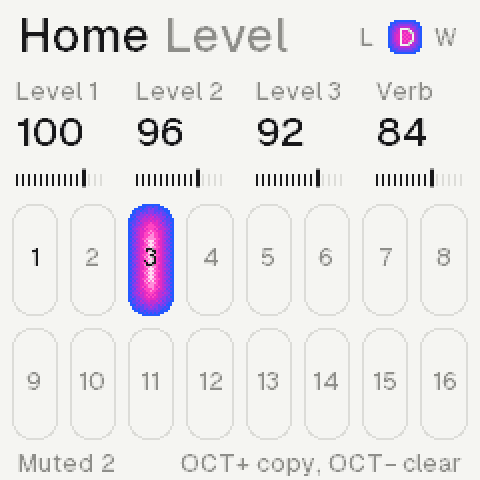
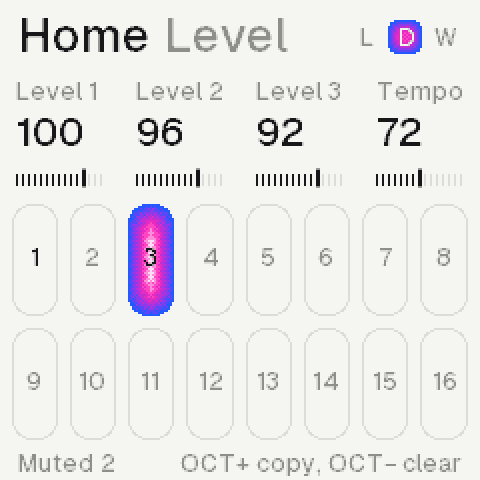
The pages for the echo a track's and the Space
The manual: the panel (FX's sends, GLO's Space, Home's three rows, ALGO
round them on Home), Home's rows, the Delay's five types, Sends, the
Space and its eight types. The site's claims and the FX and Global
pages' lines; README's features; the plan records the owner's decision
(2026-10-26) as built. Home, Home held, Home at night, FX and Global
from the tour.

Changed region(s): [[0.7812, 0.1562, 0.9688, 0.3125], [0.2812, 0.4375, 0.3438, 0.6562], [0.875, 0.3438, 0.9062, 0.4062]]

diff --git a/web/manual.html b/web/manual.html
@@ -89,13 +89,13 @@
         <h1>The panel</h1>
         <p class="msub">Each button opens its page; again, its next row. K1 to K4 turn the values over them, ALGORITHM the one at the foot.</p>
         <div class="mt">
-          <p><b>FX</b><span>Effects: reverb, delay, motion, space</span></p>
+          <p><b>FX</b><span>Effects: reverb, delay, motion, sends</span></p>
           <p><b>SEL</b><span>Filter</span></p>
           <p><b>ENV</b><span>Amp: the envelope and the level</span></p>
           <p><b>LFO</b><span>LFO: a slow wave on the pitch, cutoff, level, pan or start</span></p>
           <p><b>EDIT</b><span>Sound: the recording; again, its layer; again, the voice</span></p>
-          <p><b>GLO</b><span>Global: the colour, the echo, the media over the mix; the setup</span></p>
-          <p><b>HOME</b><span>Home: levels, sends, tempo; the scene</span></p>
+          <p><b>GLO</b><span>Global: the colour, the Space, the media over the mix; the setup</span></p>
+          <p><b>HOME</b><span>Home: levels and tempo, sends to the Space, pans; the scene</span></p>
           <p><b>ARP</b><span>Chord: the progression; the keys play chords</span></p>
           <p><b>SEQ</b><span>Roll: this synth's own sequence</span></p>
           <p><b>SAVE</b><span>Projects and sounds; again, saved</span></p>
@@ -105,13 +105,13 @@
         <div class="mt">
           <p><b>SELECT</b><span>The synth, on every page</span></p>
           <p><b>PRESETS</b><span>The page's rows; on Home, the synth's sound</span></p>
-          <p><b>ALGORITHM</b><span>The foot's value: on FX and GLO the row's type</span></p>
+          <p><b>ALGORITHM</b><span>The foot's value: on FX and GLO the row's type; on Home the rows</span></p>
           <p><b>K1 to K4</b><span>The four values on top</span></p>
           <p><b>MASTER</b><span>The volume</span></p>
         </div>
         <div class="mt">
           <p><b>Tap, again</b><span>A page button opens its page; again, its next row</span></p>
-          <p><b>PRESETS, ALGO</b><span>PRESETS the row, ALGORITHM its type</span></p>
+          <p><b>PRESETS, ALGO</b><span>PRESETS the row, ALGORITHM its type; on Home ALGORITHM the row</span></p>
           <p><b>Hold, then act</b><span>A held key or chord: the knobs change it, OCT&minus; deletes, OCT+ copies</span></p>
           <p><b>Lists go round</b><span>Past the last, the first; numbers stop at their ends</span></p>
         </div>
@@ -126,6 +126,12 @@
           <figure class="mfig"><img src="img/screens/04_filter.png" alt="Filter" width="240" height="240"><figcaption>Filter: the response, its cutoff.</figcaption></figure>
           <figure class="mfig"><img src="img/screens/05_amp.png" alt="Amp" width="240" height="240"><figcaption>Amp: the envelope, its points.</figcaption></figure>
           <figure class="mfig"><img src="img/screens/06_fx.png" alt="FX" width="240" height="240"><figcaption>FX: four rows, a synth each.</figcaption></figure>
+        </div>
+        <p class="note">Home has three rows, ALGORITHM round them; PRESETS stays the sound there.</p>
+        <div class="mt">
+          <p><b>Level</b><span>Each synth's level; K4 the tempo</span></p>
+          <p><b>Space</b><span>Each synth's send to the Space; K4 its return</span></p>
+          <p><b>Pan</b><span>Each synth's place; K4 the mix's width</span></p>
         </div>
       </article>
       <article id="keys" data-group="Playing">
@@ -301,13 +307,13 @@
       </article>
       <article id="effects" data-group="Sound">
         <h1>Effects</h1>
-        <p class="msub">Four rows a synth on FX: its own reverb, delay and motion, and where it sits. Then on GLO the colour, the echo and the media all three share. PRESETS the row, ALGORITHM its type.</p>
+        <p class="msub">Four rows a synth on FX: its own reverb, delay and motion, and its sends. Then on GLO the colour, the Space and the media all three share. PRESETS the row, ALGORITHM its type.</p>
         <figure class="mfig"><img src="img/screens/06_fx.png" alt="FX" width="240" height="240"><figcaption>Each row names its effect.</figcaption></figure>
         <div class="mt">
           <p><b>Reverb</b><span>The synth's own: room, plate, spring or hall; Amount, Tone, Size and the type's own knob</span></p>
-          <p><b>Delay</b><span>Off, delay or ping-pong (left, then right), in time: Time is a division of the tempo; Mix, Tone, Regen</span></p>
+          <p><b>Delay</b><span>Off, delay or ping-pong (left, then right) in time, Time a division of the tempo; a tape echo; grains. Mix, Tone, Regen</span></p>
           <p><b>Motion</b><span>Chorus, vibrato, drift, ensemble, phaser, flanger, tremolo (on the tempo)</span></p>
-          <p><b>Space</b><span>The sends: to its reverb (its Amount) and to the echo, the pan, the width; ALGORITHM its reverb's type</span></p>
+          <p><b>Sends</b><span>Space, its send to the Space on GLO; its pan and width</span></p>
         </div>
         <p class="note">Each effect names its own four knobs: crush shows bits, tone, rate and jitter. A synth's delay is lofi, at 11 kHz; a long time at a slow tempo plays at half, still in time.</p>
         <div class="mt">
@@ -316,10 +322,21 @@
           <p><b>Plate</b><span>Bright and dense; Mod sets its slow sway</span></p>
           <p><b>Spring</b><span>A tank's chirp, thin and wiry; Drip, how much</span></p>
           <p><b>Hall</b><span>A small hall, wide and long, to 16 s; Mod sets its slow sway</span></p>
+          <p><b>Tape echo</b><span>A synth's: darkening repeats to 0.69 s, bent as Time turns, a slow wow</span></p>
+          <p><b>Grains</b><span>A synth's: a cloud of what it played; Size, Density, Texture</span></p>
           <p><b>Colour</b><span>On GLO, the whole mix: saturate, crush, lossy (a codec's smear), noise, warm, distort</span></p>
-          <p><b>Tape echo</b><span>Darkening repeats</span></p>
-          <p><b>Grains</b><span>A cloud of what you played: size, density, texture</span></p>
           <p><b>Media</b><span>The whole mix through tape, cassette, VHS, vinyl, radio or a dictaphone</span></p>
+        </div>
+        <p class="note">The Space, on GLO: one huge reverb all three send to (their Sends, or Home's Space row), its tail to minutes. Return, Tone, Size, Mod.</p>
+        <div class="mt">
+          <p><b>Hall</b><span>Long and wide, to 21 s</span></p>
+          <p><b>Space</b><span>Wider still, to two minutes</span></p>
+          <p><b>Haze</b><span>Deep, slow and dark</span></p>
+          <p><b>Bloom</b><span>Swells up behind a new sound</span></p>
+          <p><b>Lofi</b><span>Grainy: 11 kHz, 8 bits, a deep wow</span></p>
+          <p><b>Shimmer</b><span>An octave up rising through it; Shine, how much</span></p>
+          <p><b>Reverse</b><span>The sound backwards into it; Length, how long</span></p>
+          <p><b>Freeze</b><span>Holds what is in it, to five minutes; Hold, how much</span></p>
         </div>
       </article>
       <article id="midi" data-group="Reference">

diff --git a/web/index.html b/web/index.html
@@ -5,7 +5,7 @@
   <meta charset="utf-8">
   <meta name="viewport" content="width=device-width, initial-scale=1">
   <title>Demake</title>
-  <meta name="description" content="Demake: an ambient lofi machine for the M-VAVE FM-1. Three synths on its own recordings, scenes and songs, a chord machine, tape, lossy and a reverb each.">
+  <meta name="description" content="Demake: an ambient lofi machine for the M-VAVE FM-1. Three synths on its own recordings, scenes and songs, a chord machine, tape, lossy, a reverb each and one huge Space.">
   <link rel="icon" href="img/icon.png">
   <link rel="stylesheet" href="style.css?v=30">
   <script>
@@ -73,7 +73,7 @@
     <figure class="eng e3"><div class="img"><canvas class="heat" data-heat="img/art/drift.png"></canvas></div><figcaption><b>Colour</b><span>Saturate, crush, lossy, noise, warm, distort.</span></figcaption></figure>
     <figure class="eng e4"><div class="img"><canvas class="heat" data-heat="img/art/rise.png"></canvas></div><figcaption><b>Media</b><span>Tape to dictaphone over the whole mix, wow and all.</span></figcaption></figure>
     <figure class="eng e5"><div class="img"><canvas class="heat" data-heat="img/art/twin.png"></canvas></div><figcaption><b>Motion</b><span>Chorus to flanger, and a tremolo in time.</span></figcaption></figure>
-    <figure class="eng e6"><div class="img"><canvas class="heat" data-heat="img/art/wave.png"></canvas></div><figcaption><b>Space</b><span>A reverb and a delay a synth, an echo, grains.</span></figcaption></figure>
+    <figure class="eng e6"><div class="img"><canvas class="heat" data-heat="img/art/wave.png"></canvas></div><figcaption><b>Space</b><span>A reverb and a delay or echo a synth; one huge Space.</span></figcaption></figure>
   </section>
 
   <!-- 03 the screens: its pages, one press each -->
@@ -95,8 +95,8 @@
       <button class="page" data-src="img/screens/03_sound.png" data-name="Sound" data-b="4" data-say="The sound&#39;s shape, its loop"><kbd>EDIT</kbd><b>Sound</b><span></span></button>
       <button class="page" data-src="img/screens/04_filter.png" data-name="Filter" data-b="1" data-say="The response, its cutoff a point"><kbd>SEL</kbd><b>Filter</b><span></span></button>
       <button class="page" data-src="img/screens/05_amp.png" data-name="Amp" data-b="2" data-say="The envelope, its points round"><kbd>ENV</kbd><b>Amp</b><span></span></button>
-      <button class="page" data-src="img/screens/06_fx.png" data-name="FX" data-b="0" data-say="Reverb, delay, motion, space"><kbd>FX</kbd><b>FX</b><span></span></button>
-      <button class="page" data-src="img/screens/08_global.png" data-name="Global" data-b="5" data-say="The colour, the echo, the media, the setup"><kbd>GLO</kbd><b>Global</b><span></span></button>
+      <button class="page" data-src="img/screens/06_fx.png" data-name="FX" data-b="0" data-say="Reverb, delay, motion, sends"><kbd>FX</kbd><b>FX</b><span></span></button>
+      <button class="page" data-src="img/screens/08_global.png" data-name="Global" data-b="5" data-say="The colour, the Space, the media, the setup"><kbd>GLO</kbd><b>Global</b><span></span></button>
       <button class="page" data-src="img/screens/09_lfo.png" data-name="LFO" data-b="3" data-say="Its shape and its target"><kbd>LFO</kbd><b>LFO</b><span></span></button>
       <button class="page" data-src="img/screens/30_save_projects.png" data-name="Save" data-b="7" data-say="Projects, a list; then the sounds"><kbd>SAVE</kbd><b>Save</b><span></span></button>
       <button class="page" data-src="img/screens/19_home_night.png" data-name="Night" data-say="The same pages, the night theme"><kbd>GLO</kbd><b>Night</b><span>Theme</span></button>

diff --git a/docs/plan.md b/docs/plan.md
@@ -112,6 +112,28 @@ chain, the other two there while the first mixes. Store version 12 maps an old s
 on to the mix; a library sound of form 3 or less drops its colour, its send a hall's amount. The table below is the
 plan of 2026-10-23, kept as it was.
 
+**Decision (the owner, 2026-10-26): the echo a track's, the huge reverbs GLO's Space.** "Tape and grains can go to
+delay per track and you call tape echo. So then Space will contain the huge different reverbs in global"; then "the
+big reverbs (Space name) is only in GLO, no per track, should be optimized". As built (0.4.18): each synth's Delay is
+Off, Delay, Ping-pong, Tape echo (the shared echo of before: a free time to 0.69 s, bent as it turns, a slow wow, its
+right a sixteenth later, the loop darkened and driven) or Grains (Mix, Size, Density, Texture), in its own 0.84 s line;
+GLO's rows are Colour, Space, Media, Setup, the Space one reverb all three send to: Hall, Space, Haze, Bloom, Lofi,
+Shimmer, Reverse, Freeze (all eight of the old shared verbs' huge ones; Room, Plate, Spring stay a track's), Return,
+Tone, Size (Reverse: Length; Freeze: Hold), Mod (Shimmer: Shine). FX's last row is Sends (Space, its send; Pan,
+Width; K2 and ALGO nothing); each synth's small reverb is as it was. Home has three rows, ALGO round them, PRESETS
+still the sound: Level (K4 the tempo), Space (each synth's send, K4 the Space's return), Pan (K4 the width). The
+Space is one engine for all its types: four input all-passes into Dattorro's figure of eight at full size (the
+reverbs a track's PLATE at a sixth), at half rate, 32 KB of lines in RAM and REVERSE's 16 KB (SHIMMER's window in it)
+in the pool where the echo's line was; the old eight-line network cost ~400 a sample, which no longer fit beside three
+reverbs a track; this ~245 [M]. Every product round its loop keeps its remainder (towards zero at the last few
+samples), so every type at every knob's end decays to exact silence (FREEZE's whole HOLD in ~2 minutes) and none fills
+its lines on a full chord. The second core runs it a run late (5.8 ms): its sends queued as the chains end, a third
+worked in the chains' phase, the rest with the first synth's reverb while the first core mixes; the voices go every
+other one a core and each side's limiter with its colour and media. Heaviest: CPU0 1516, CPU1 1371; with a layer under
+every voice, CPU0 1587, CPU1 1535 [M]. Store version 13 gives a synth that sent to the shared echo, with no delay of
+its own, that echo as its delay (its mix the send through the return); songs before 12 their huge verb as the Space,
+their sends its; songs of 12 the Space off.
+
 Every synth sends to both; each bus holds one type at a time (GLO, 3.4), stereo, at 22.05 kHz.
 
 | Bus | Type | Algorithm | Source | RAM | Instr / sample |

diff --git a/README.md b/README.md
@@ -22,10 +22,11 @@ dithered, for what is lit.
     or on the tempo.
   - A layer: a second recording under a sound. Glide, velocity, the cutoff following the key, and grit (the voice at
     22 or 11 kHz).
-  - Per synth: a Reverb of its own (room, plate, spring, hall), a Delay in time (delay or ping-pong) and Motion
-    (chorus, vibrato, drift, ensemble, phaser, flanger, tremolo).
-  - Shared: a tape echo or grains, and over the whole mix a Colour (saturate, crush, lossy, noise, warm, distort) and
-    a Media (tape, cassette, VHS, vinyl, radio, dictaphone); each can be off.
+  - Per synth: a Reverb of its own (room, plate, spring, hall), a Delay (a delay or ping-pong in time, a tape echo or
+    grains) and Motion (chorus, vibrato, drift, ensemble, phaser, flanger, tremolo).
+  - Shared: the Space, one huge reverb all three send to (hall, space, haze, bloom, lofi, shimmer, reverse, freeze),
+    and over the whole mix a Colour (saturate, crush, lossy, noise, warm, distort) and a Media (tape, cassette, VHS,
+    vinyl, radio, dictaphone); each can be off.
 - **The music.**
   - Three synths, each with a piano roll of up to 256 steps and eight patterns of its own, recorded as played
     (micro timing, a strum's spacing), notes that can move in the scale and play by chance (Vary, on the roll, the
